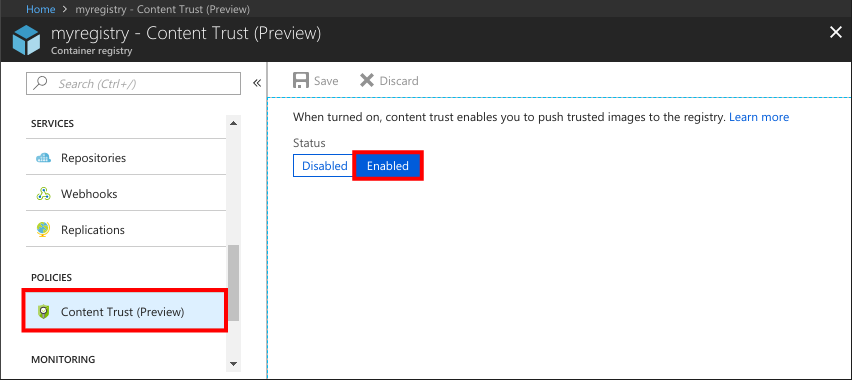
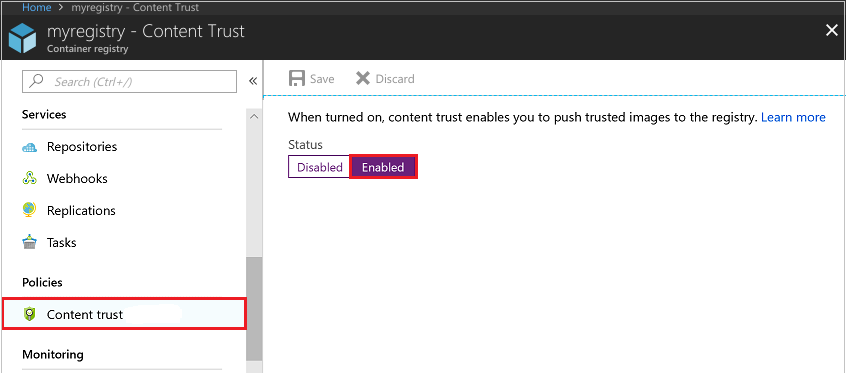
[ACR] Build: Content trust GA

diff --git a/articles/container-registry/container-registry-content-trust.md b/articles/container-registry/container-registry-content-trust.md
@@ -6,17 +6,19 @@ author: dlepow
 
 ms.service: container-registry
 ms.topic: quickstart
-ms.date: 08/20/2018
+ms.date: 05/06/2019
 ms.author: danlep
 ---
 # Content trust in Azure Container Registry
 
-Important to any distributed system designed with security in mind is verifying both the *source* and the *integrity* of data entering the system. Consumers of the data need to be able to verify both the publisher (source) of the data, as well as ensure it's not been modified after it was published (integrity). Azure Container Registry supports both by implementing Docker's [content trust][docker-content-trust] model, and this article gets you started.
+Azure Container Registry implements Docker's [content trust][docker-content-trust] model, enabling pushing and pulling of signed images. This article gets you started enabling content trust in your container registries.
 
-> [!IMPORTANT]
-> This feature is currently in preview. Previews are made available to you on the condition that you agree to the [supplemental terms of use][terms-of-use]. Some aspects of this feature may change prior to general availability (GA).
+> [!NOTE]
+> Content trust is a feature of the [Premium SKU](container-registry-skus.md) of Azure Container Registry.
 
 ## How content trust works
+
+Important to any distributed system designed with security in mind is verifying both the *source* and the *integrity* of data entering the system. Consumers of the data need to be able to verify both the publisher (source) of the data, as well as ensure it's not been modified after it was published (integrity). 
 
 As an image publisher, content trust allows you to **sign** the images you push to your registry. Consumers of your images (people or systems pulling images from your registry) can configure their clients to pull *only* signed images. When an image consumer pulls a signed image, their Docker client verifies the integrity of the image. In this model, consumers are assured that the signed images in your registry were indeed published by you, and that they've not been modified since being published.
 
@@ -35,7 +37,7 @@ Content trust is managed through the use of a set of cryptographic signing keys.
 
 Your first step is to enable content trust at the registry level. Once you enable content trust, clients (users or services) can push signed images to your registry. Enabling content trust on your registry does not restrict registry usage only to consumers with content trust enabled. Consumers without content trust enabled can continue to use your registry as normal. Consumers who have enabled content trust in their clients, however, will be able to see *only* signed images in your registry.
 
-To enable content trust for your registry, first navigate to the registry in the Azure portal. Under **POLICIES**, select **Content Trust (Preview)** > **Enabled** > **Save**.
+To enable content trust for your registry, first navigate to the registry in the Azure portal. Under **Policies**, select **Content Trust** > **Enabled** > **Save**.
 
 ![Enabling content trust for a registry in the Azure portal][content-trust-01-portal]
 
@@ -66,7 +68,7 @@ docker build --disable-content-trust -t myacr.azurecr.io/myimage:v1 .
 
 ## Grant image signing permissions
 
-Only the users or systems you've granted permission can push trusted images to your registry. To grant trusted image push permission to a user (or a system using a service principal), grant their Azure Active Directory identities the `AcrImageSigner` role. This is in addition to the `Contributor` (or `Owner`) role required for pushing images to the registry.
+Only the users or systems you've granted permission can push trusted images to your registry. To grant trusted image push permission to a user (or a system using a service principal), grant their Azure Active Directory identities the `AcrImageSigner` role. This is in addition to the `AcrPush` (or equivalent) role required for pushing images to the registry. For details, see [Azure Container Registry roles and permissions](container-registry-roles.md).
 
 Details for granting the `AcrImageSigner` role in the Azure portal and the Azure CLI follow.
 
@@ -179,15 +181,13 @@ If you lose access to your root key, you lose access to the signed tags in any r
 > [!WARNING]
 > Disabling and re-enabling content trust in your registry **deletes all trust data for all signed tags in every repository in your registry**. This action is irreversible--Azure Container Registry cannot recover deleted trust data. Disabling content trust does not delete the images themselves.
 
-To disable content trust for your registry, navigate to the registry in the Azure portal. Under **POLICIES**, select **Content Trust (Preview)** > **Disabled** > **Save**. You're warned of the loss of all signatures in the registry. Select **OK** to permanently delete all signatures in your registry.
+To disable content trust for your registry, navigate to the registry in the Azure portal. Under **Policies**, select **Content Trust** > **Disabled** > **Save**. You're warned of the loss of all signatures in the registry. Select **OK** to permanently delete all signatures in your registry.
 
 ![Disabling content trust for a registry in the Azure portal][content-trust-03-portal]
 
 ## Next steps
 
-See the Docker documentation for additional information about content trust. While several key points were touched on in this article, content trust is an extensive topic and is covered more in-depth in the Docker documentation.
-
-[Content trust in Docker][docker-content-trust]
+See [Content trust in Docker][docker-content-trust] for additional information about content trust. While several key points were touched on in this article, content trust is an extensive topic and is covered more in-depth in the Docker documentation.
 
 <!-- IMAGES> -->
 [content-trust-01-portal]: ./media/container-registry-content-trust/content-trust-01-portal.png

diff --git a/articles/container-registry/container-registry-skus.md b/articles/container-registry/container-registry-skus.md
@@ -6,7 +6,7 @@ author: dlepow
 
 ms.service: container-registry
 ms.topic: article
-ms.date: 03/26/2019
+ms.date: 05/06/2019
 ms.author: danlep
 ---
 
@@ -18,7 +18,7 @@ Azure Container Registry (ACR) is available in multiple service tiers, known as 
 | --- | :-------: | ----------- |
 | **Basic** | Yes | A cost-optimized entry point for developers learning about Azure Container Registry. Basic registries have the same programmatic capabilities as Standard and Premium (such as Azure Active Directory [authentication integration](container-registry-authentication.md#individual-login-with-azure-ad), [image deletion][container-registry-delete], and [webhooks][container-registry-webhook]). However, the included storage and image throughput are most appropriate for lower usage scenarios. |
 | **Standard** | Yes | Standard registries offer the same capabilities as Basic, with increased included storage and image throughput. Standard registries should satisfy the needs of most production scenarios. |
-| **Premium** | Yes | Premium registries provide the highest amount of included storage and concurrent operations, enabling high-volume scenarios. In addition to higher image throughput, Premium adds features including [geo-replication][container-registry-geo-replication] for managing a single registry across multiple regions, [content trust (preview)](container-registry-content-trust.md) for image tag signing, and [firewalls and virtual networks (preview)](container-registry-vnet.md) to restrict access to the registry. |
+| **Premium** | Yes | Premium registries provide the highest amount of included storage and concurrent operations, enabling high-volume scenarios. In addition to higher image throughput, Premium adds features including [geo-replication][container-registry-geo-replication] for managing a single registry across multiple regions, [content trust](container-registry-content-trust.md) for image tag signing, and [firewalls and virtual networks (preview)](container-registry-vnet.md) to restrict access to the registry. |
 |  Classic (*not available after April 2019*) | No | This SKU enabled the initial release of the Azure Container Registry service in Azure. Classic registries are backed by a storage account that Azure creates in your subscription, which limits the ability for ACR to provide higher-level capabilities such as increased throughput and geo-replication. |
 
 > [!IMPORTANT]
